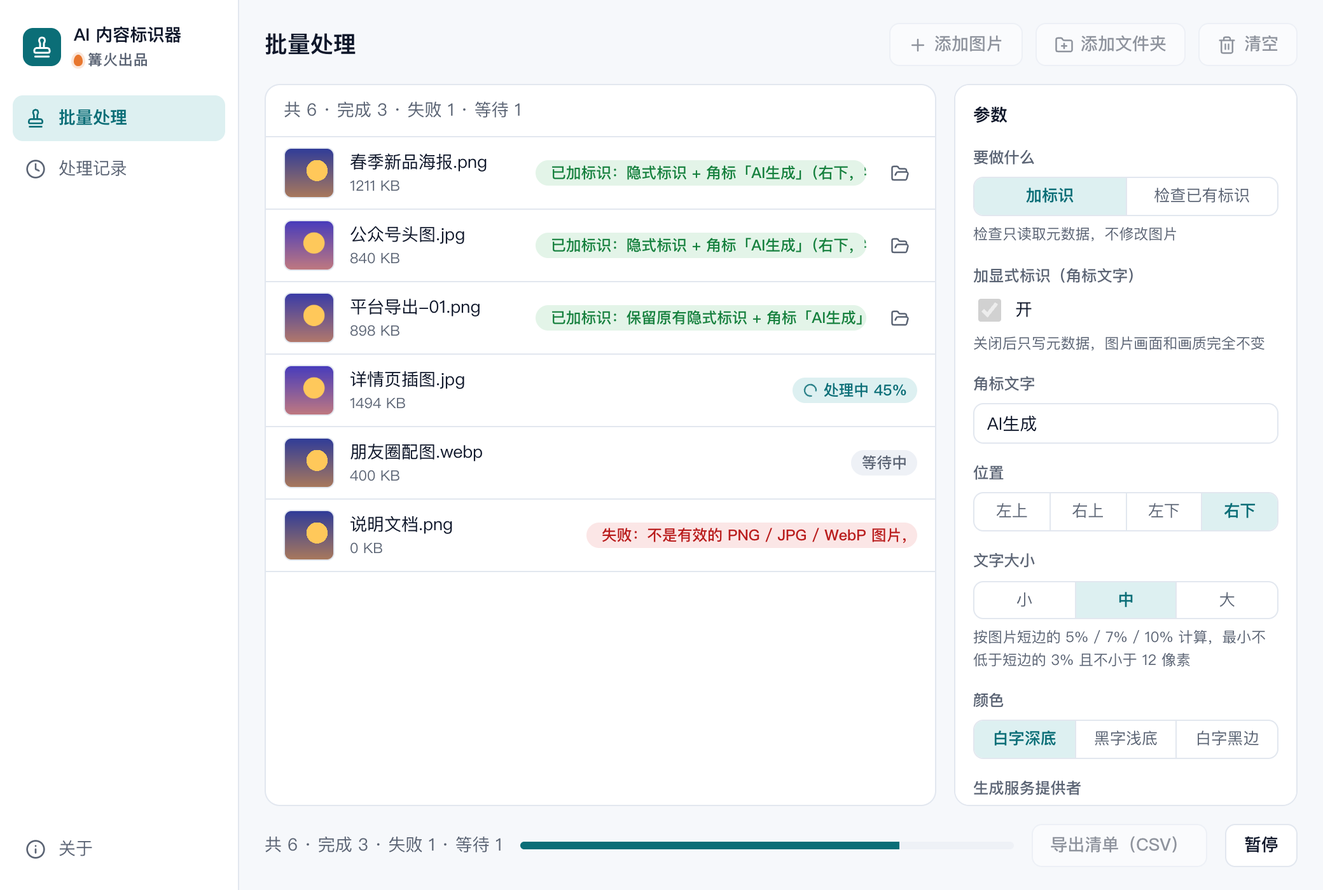
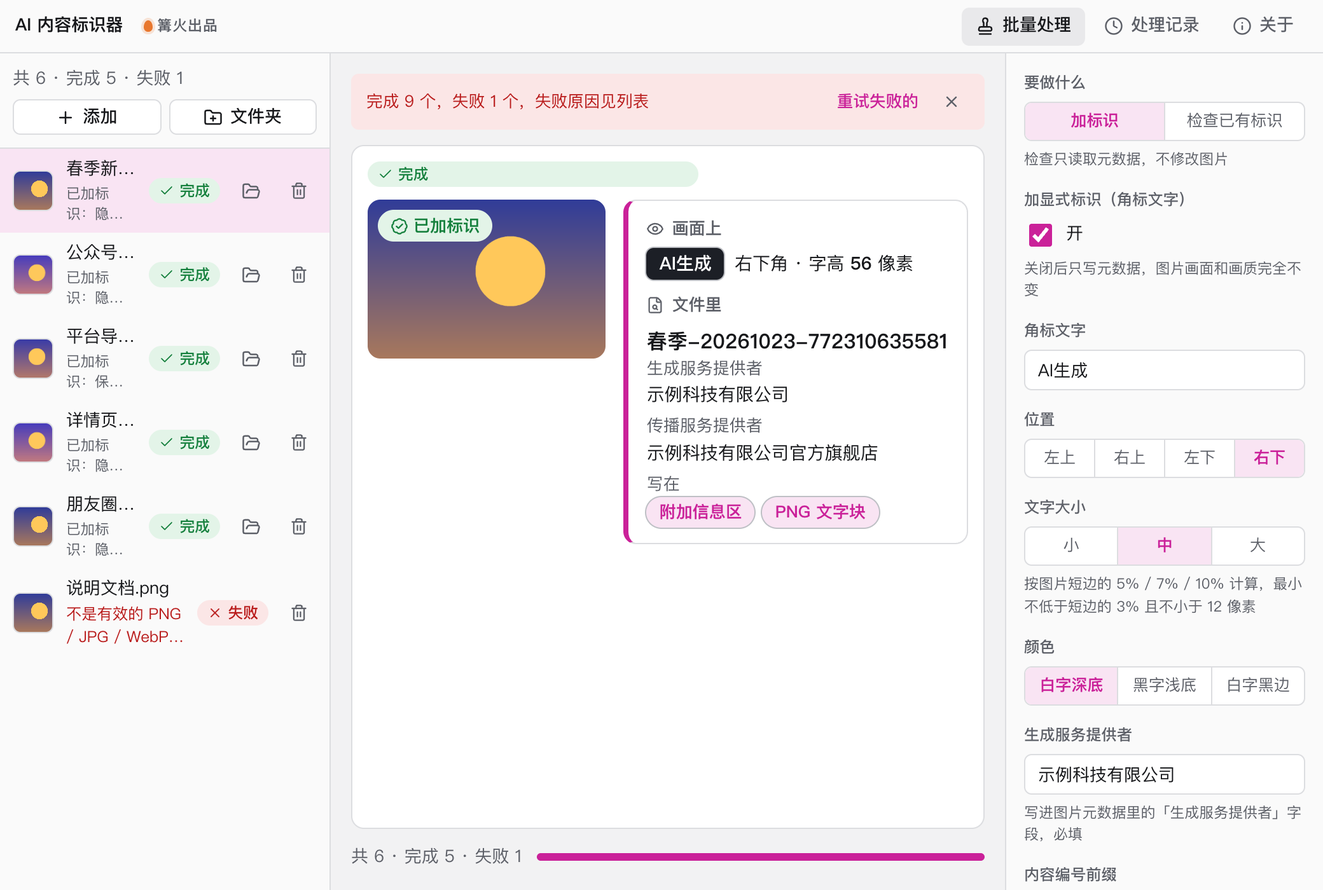
打磨 0.2.0：左列表右大预览布局、标识档案结果展示、新空状态、全中文

diff --git a/src/tool/index.ts b/src/tool/index.ts
@@ -6,6 +6,9 @@ import { drawLabel, type BadgeStyle } from './canvas';
 import { SIZE_RATIO, checkLabelText, detectFormat, inspect, makeProduceId, outputName, toCsv, type Corner } from './core';
 import { readJpegXmp, writeJpegXmp } from './jpeg';
 import { readPngXmp, writePngLabel } from './png';
+import { Empty } from './Empty';
+import { ResultBody } from './Result';
+import type { RowData } from './row';
 
 const isLabel = (p: Params) => p.action === 'label';
 const withExplicit = (p: Params) => isLabel(p) && p.explicit === true;
@@ -15,21 +18,13 @@ async function sha256Hex(b: Uint8Array) {
   return Array.from(d, (x) => x.toString(16).padStart(2, '0')).join('');
 }
 
-/** 每个文件的结果数据，供导出清单使用 */
-interface RowData {
-  found: boolean;
-  where: string[];
-  info: Partial<AigcInfo> | null;
-  output?: string;
-  kept?: boolean;
-}
 
 const CORNER_TEXT: Record<string, string> = { tl: '左上', tr: '右上', bl: '左下', br: '右下' };
 
 const tool: BatchTool = {
   id: 'c23',
   name: 'AI 内容标识器',
-  tagline: '依据《人工智能生成合成内容标识办法》，给 AI 生成的图片加上「AI生成」角标（显式标识），并把 AIGC 标记、生成服务提供者、内容编号写进文件元数据（隐式标识）；也能批量检查图片里有没有这些元数据。',
+  tagline: '依据《人工智能生成合成内容标识办法》，给 AI 生成的图片加上「AI生成」角标（显式标识），并把生成标记、生成服务提供者、内容编号写进文件元数据（隐式标识）；也能批量检查图片里有没有这些元数据。',
   icon: StampAsIcon,
   category: '内容生产',
   type: 'media',
@@ -44,12 +39,14 @@ const tool: BatchTool = {
     { key: 'corner', label: '位置', type: 'segment', options: [['tl', '左上'], ['tr', '右上'], ['bl', '左下'], ['br', '右下']], default: 'br', when: withExplicit },
     { key: 'size', label: '文字大小', type: 'segment', options: [['s', '小'], ['m', '中'], ['l', '大']], default: 'm', when: withExplicit, help: '按图片短边的 5% / 7% / 10% 计算，最小不低于短边的 3% 且不小于 12 像素' },
     { key: 'style', label: '颜色', type: 'segment', options: [['dark', '白字深底'], ['light', '黑字浅底'], ['outline', '白字黑边']], default: 'dark', when: withExplicit },
-    { key: 'producer', label: '生成服务提供者', type: 'text', default: '', placeholder: '生成这张图的 AI 服务提供者名称或编码', when: isLabel, help: '写入元数据的 ContentProducer 字段，必填' },
+    { key: 'producer', label: '生成服务提供者', type: 'text', default: '', placeholder: '生成这张图的 AI 服务提供者名称或编码', when: isLabel, help: '写进图片元数据里的「生成服务提供者」字段，必填' },
     { key: 'idPrefix', label: '内容编号前缀', type: 'text', default: '', placeholder: '选填，例如 SHOP-', when: isLabel, help: '内容编号 = 前缀 + 日期 + 文件摘要，同一张图编号固定' },
-    { key: 'propagator', label: '传播服务提供者', type: 'text', default: '', placeholder: '选填，例如发布平台或你的公司名称', when: isLabel, help: '写入 ContentPropagator 字段' },
+    { key: 'propagator', label: '传播服务提供者', type: 'text', default: '', placeholder: '选填，例如发布平台或你的公司名称', when: isLabel, help: '写进图片元数据里的「传播服务提供者」字段' },
     { key: 'existing', label: '图片里已有隐式标识时', type: 'segment', options: [['keep', '保留原有'], ['replace', '用新填的替换']], default: 'keep', when: isLabel, help: 'AI 平台导出的图片常常已带标识，默认保留原生成方信息' },
     { key: 'out', label: '保存到', type: 'folder', default: '', when: isLabel },
   ],
+  Empty,
+  ResultBody,
   exportAll: async (results, ctx) => {
     const label = isLabel(ctx.params);
     const header = ['文件', label ? '标识结果' : '是否有隐式标识', '标识位置', ...AIGC_FIELDS, ...(label ? ['输出文件'] : [])];
@@ -58,7 +55,7 @@ const tool: BatchTool = {
       const status = label ? (d.kept ? '保留原有隐式标识' : '已写入新的隐式标识') : d.found ? '有' : '没有';
       return [item.name, status, d.where.join('、'), ...AIGC_FIELDS.map((f) => d.info?.[f] ?? ''), ...(label ? [d.output ?? ''] : [])];
     });
-    const path = await ctx.join(ctx.outputDir, label ? 'AIGC标识清单.csv' : 'AIGC标识检查报告.csv');
+    const path = await ctx.join(ctx.outputDir, label ? 'AI生成标识清单.csv' : 'AI生成标识检查报告.csv');
     await ctx.writeText(path, toCsv(header, rows));
     return path;
   },
@@ -74,7 +71,7 @@ const tool: BatchTool = {
 
     if (!isLabel(p)) {
       const data: RowData = { found: !!before.info, where: before.where, info: before.info };
-      if (!before.info) return { summary: '没有找到 AIGC 隐式标识', data };
+      if (!before.info) return { summary: '没有找到 AI 生成隐式标识', data };
       const i = before.info;
       const who = i.ContentProducer ? `生成方 ${i.ContentProducer}` : '未写生成方';
       return { summary: `有隐式标识：${who}${i.ProduceID ? `，内容编号 ${i.ProduceID}` : ''}（位置：${before.where.join('、')}）`, data };
@@ -98,10 +95,12 @@ const tool: BatchTool = {
     const outFormat = format === 'jpg' ? 'jpg' : 'png';
     let data = src;
     let badgeNote = '';
+    let badge: RowData['badge'];
     if (p.explicit === true || format === 'webp') {
       const text = p.explicit === true ? checkLabelText(String(p.text ?? '')) : '';
       const r = await drawLabel(src, { text, corner: p.corner as Corner, ratio: SIZE_RATIO[String(p.size)] ?? SIZE_RATIO.m, style: p.style as BadgeStyle, format: outFormat });
       data = r.data;
+      if (r.badge) badge = { text, corner: String(p.corner), font: r.badge.font };
       if (r.badge) badgeNote = ` + 角标「${text}」（${CORNER_TEXT[String(p.corner)] ?? ''}，字高 ${r.badge.font} 像素）`;
     }
     ctx.progress(0.7);
@@ -126,7 +125,7 @@ const tool: BatchTool = {
       outputPath,
       preview: outputPath,
       summary: `${implicit}${badgeNote}${detail}${webp}`,
-      data: { found: true, where: after.where, info, output: outputPath, kept: keep } satisfies RowData,
+      data: { found: true, where: after.where, info, output: outputPath, kept: keep, badge } satisfies RowData,
     };
   },
 };

diff --git a/src/tool/tool.css b/src/tool/tool.css
@@ -1,0 +1,39 @@
+/* AI 内容标识器：空状态示意图 + 结果「标识档案」；只用 kit.css 变量，适配亮暗色 */
+.lb-empty { display: grid; justify-items: center; gap: 14px; padding: 20px; max-width: 580px; margin: auto; text-align: center; font-size: 14px; }
+.lb-empty > svg { width: 100%; max-width: 500px; height: auto; }
+.lb-photo { fill: var(--chip); stroke: var(--line-strong); stroke-width: 1.5; }
+.lb-sun { fill: var(--warn); }
+.lb-hill { fill: var(--primary); opacity: .5; }
+.lb-arrow { fill: none; stroke: var(--primary); stroke-width: 3; stroke-linecap: round; stroke-linejoin: round; }
+.lb-badge { fill: #1c1f26; opacity: .88; }
+.lb-badge-t { fill: #fff; font-size: 13px; font-weight: 700; }
+.lb-cap { fill: var(--ink); font-size: 13px; font-weight: 600; }
+.lb-cap.muted { fill: var(--muted); }
+.lb-meta rect:first-child { fill: var(--primary-soft); stroke: var(--primary); stroke-width: 1.5; }
+.lb-meta rect:not(:first-child) { fill: var(--primary); opacity: .45; }
+.lb-meta-h { fill: var(--primary); font-size: 13px; font-weight: 700; }
+.lb-points { list-style: none; margin: 0; padding: 0; display: grid; gap: 6px; width: 100%; max-width: 500px; text-align: left; }
+.lb-points li { display: grid; grid-template-columns: 20px 72px 1fr; align-items: center; gap: 8px; padding: 7px 12px; border-radius: min(var(--radius), 10px); background: var(--chip); }
+.lb-points svg { color: var(--primary); }
+.lb-points span { color: var(--muted); font-size: 13px; }
+.lb-title { margin: 4px 0 0; font-size: 20px; }
+.lb-act { margin: 0; color: var(--muted); font-size: 13px; }
+
+.lb-res { display: grid; grid-template-columns: minmax(130px, .9fr) minmax(0, 1.3fr); gap: 14px; width: 100%; min-width: 0; font-size: 14px; align-items: start; }
+.lb-pic { position: relative; margin: 0; border-radius: var(--radius-lg); overflow: hidden; background: var(--chip); }
+.lb-pic img { display: block; width: 100%; max-height: 300px; object-fit: contain; background: repeating-conic-gradient(var(--chip) 0 25%, var(--surface) 0 50%) 0 0 / 16px 16px; }
+.lb-state { position: absolute; left: 8px; top: 8px; display: inline-flex; align-items: center; gap: 4px; padding: 3px 10px; border-radius: 999px; font-size: 13px; font-weight: 600; background: var(--ok-soft); color: var(--ok); }
+.lb-state.warn { background: var(--warn-soft); color: var(--warn); }
+.lb-doc { display: grid; gap: 10px; padding: 12px 14px; border: 1px solid var(--line); border-left: 4px solid var(--primary); border-radius: var(--radius-lg); background: var(--surface); min-width: 0; }
+.lb-doc h4 { margin: 0 0 6px; display: flex; align-items: center; gap: 6px; font-size: 13px; color: var(--muted); font-weight: 600; }
+.lb-doc p { margin: 0; }
+.lb-badge-line { display: flex; align-items: center; flex-wrap: wrap; gap: 8px; }
+.lb-chip { display: inline-block; padding: 2px 10px; border-radius: 6px; background: #1c1f26; color: #fff; font-weight: 700; font-size: 14px; box-shadow: 0 0 0 1px var(--line-strong); }
+.lb-chip.soft { background: var(--primary-soft); color: var(--primary); font-weight: 600; font-size: 13px; border-radius: 999px; }
+.lb-id { font-size: 16px; font-weight: 700; letter-spacing: .01em; word-break: break-all; margin-bottom: 6px; }
+.lb-doc dl { margin: 0; display: grid; gap: 4px; }
+.lb-doc dl > div { display: grid; gap: 1px; }
+.lb-doc dt { color: var(--muted); font-size: 13px; }
+.lb-doc dd { margin: 0; min-width: 0; word-break: break-all; }
+.lb-where { display: flex; flex-wrap: wrap; gap: 6px; }
+@media (max-width: 560px) { .lb-res { grid-template-columns: 1fr; } }

diff --git a/src/tool/preview.ts b/src/tool/preview.ts
@@ -1,15 +1,31 @@
 // 截图与预览用的示例数据（不会进入正式运行）
 import type { Row } from '../kit/runner';
+import type { RowData } from './row';
 
 const img = (n: string) => new URL(`../../samples/${n}`, import.meta.url).href;
 const files: [string, string, number, Row['status'], string?][] = [
-  ['春季新品海报.png', 'AI海报.png', 1_240_000, 'ok', '已加标识：隐式标识 + 角标「AI生成」（右下，字高 56 像素） · 编号 SHOP-20261023-77231063f35f'],
-  ['公众号头图.jpg', 'AI插画.jpg', 860_000, 'ok', '已加标识：隐式标识 + 角标「AI生成」（右下，字高 70 像素） · 编号 SHOP-20261023-d061e354cddb'],
+  ['春季新品海报.png', 'AI海报.png', 1_240_000, 'ok', '已加标识：隐式标识 + 角标「AI生成」（右下，字高 56 像素） · 编号 春季-20261023-772310635581'],
+  ['公众号头图.jpg', 'AI插画.jpg', 860_000, 'ok', '已加标识：隐式标识 + 角标「AI生成」（右下，字高 70 像素） · 编号 春季-20261023-406135498204'],
   ['平台导出-01.png', '平台已标识.png', 920_000, 'ok', '已加标识：保留原有隐式标识 + 角标「AI生成」（右下，字高 56 像素） · 原生成方 示例AI平台'],
   ['详情页插图.jpg', 'AI插画.jpg', 1_530_000, 'run'],
   ['朋友圈配图.webp', 'AI海报.png', 410_000, 'wait'],
   ['说明文档.png', 'AI海报.png', 33, 'err', '不是有效的 PNG / JPG / WebP 图片，可能已损坏或扩展名不对'],
 ];
+
+function dataOf(text: string): RowData {
+  const kept = text.includes('保留原有');
+  const id = /编号 (\S+)/.exec(text)?.[1] ?? '';
+  const font = Number(/字高 (\d+)/.exec(text)?.[1] ?? 56);
+  return {
+    found: true,
+    // check-zh: 忽略（与读取结果里的位置名一致，界面上会转成中文）
+    where: ['XMP', 'PNG 文字块 AIGC'],
+    info: kept ? { ContentProducer: '示例AI平台', ProduceID: 'DEMO-0001', ContentPropagator: '' } : { ContentProducer: '示例科技有限公司', ProduceID: id, ContentPropagator: '示例科技有限公司官方旗舰店' },
+    output: '/示例/输出',
+    kept,
+    badge: { text: 'AI生成', corner: 'br', font },
+  };
+}
 
 export const rows = (state: string): Row[] =>
   state === 'empty' ? [] : files.map(([name, sample, size, status, text], i) => {
@@ -19,7 +35,7 @@ export const rows = (state: string): Row[] =>
       status: st,
       progress: st === 'run' ? 0.45 : st === 'ok' ? 1 : 0,
       error: st === 'err' ? text : undefined,
-      result: st === 'ok' ? { summary: text ?? '已加标识：隐式标识 + 角标「AI生成」', outputPath: '/示例/输出', preview: img(sample) } : undefined,
+      result: st === 'ok' ? { summary: text ?? '已加标识：隐式标识 + 角标「AI生成」', outputPath: '/示例/输出', preview: img(sample), data: dataOf(text ?? '') } : undefined,
     };
   });
 

diff --git a/src/tool/Empty.tsx b/src/tool/Empty.tsx
@@ -1,0 +1,43 @@
+// 空状态：画出「一张 AI 配图 → 右下角多一个角标，文件里多一份编号」，再讲清两层标识
+import { Eye, FileSearch, Upload } from 'lucide-react';
+import './tool.css';
+
+function Photo({ x, y, w, h }: { x: number; y: number; w: number; h: number }) {
+  return (
+    <g>
+      <rect x={x} y={y} width={w} height={h} rx="8" className="lb-photo" />
+      <circle cx={x + w * 0.74} cy={y + h * 0.27} r={h * 0.1} className="lb-sun" />
+      <path d={`M${x} ${y + h * 0.8} L${x + w * 0.32} ${y + h * 0.42} L${x + w * 0.55} ${y + h * 0.68} L${x + w * 0.7} ${y + h * 0.55} L${x + w} ${y + h * 0.82} V${y + h - 8} Q${x + w} ${y + h} ${x + w - 8} ${y + h} H${x + 8} Q${x} ${y + h} ${x} ${y + h - 8} Z`} className="lb-hill" />
+    </g>
+  );
+}
+
+export function Empty({ hover }: { hover: boolean }) {
+  return (
+    <div className="lb-empty">
+      <svg viewBox="0 0 460 170" role="img" aria-label="一张 AI 生成的图片，右下角多了「AI生成」角标，文件里多了生成服务提供者和内容编号">
+        <Photo x={8} y={20} w={150} h={112} />
+        <text x="83" y="154" textAnchor="middle" className="lb-cap muted">原图</text>
+        <path d="M174 76 H208 M199 67 L210 76 L199 85" className="lb-arrow" />
+        <Photo x={226} y={20} w={150} h={112} />
+        <rect x="294" y="106" width="76" height="22" rx="5" className="lb-badge" />
+        <text x="332" y="121" textAnchor="middle" className="lb-badge-t">AI生成</text>
+        <text x="301" y="154" textAnchor="middle" className="lb-cap">画面上：显式标识</text>
+        <g className="lb-meta">
+          <rect x="386" y="20" width="68" height="112" rx="8" />
+          <text x="420" y="42" textAnchor="middle" className="lb-meta-h">文件里</text>
+          <rect x="396" y="54" width="48" height="6" rx="3" /><rect x="396" y="70" width="36" height="6" rx="3" />
+          <rect x="396" y="86" width="44" height="6" rx="3" /><rect x="396" y="102" width="30" height="6" rx="3" />
+        </g>
+        <text x="420" y="154" textAnchor="middle" className="lb-cap">隐式标识</text>
+      </svg>
+      <ul className="lb-points">
+        <li><Eye size={16} /><b>显式标识</b><span>在画面一角加「AI生成」，字高按图片大小算，小图放不下会提示</span></li>
+        <li><FileSearch size={16} /><b>隐式标识</b><span>把生成方、内容编号写进文件元数据，同一张图编号固定</span></li>
+        <li><Upload size={16} /><b>检查已有</b><span>切到「检查已有标识」，批量看哪些图没带标识</span></li>
+      </ul>
+      <h2 className="lb-title">{hover ? '松开鼠标，开始添加' : '把 AI 生成的图片拖进来'}</h2>
+      <p className="lb-act">支持 PNG、JPG、WebP，可多张或整个文件夹；结果存到新文件夹，原图不动</p>
+    </div>
+  );
+}

diff --git a/src/tool/Result.tsx b/src/tool/Result.tsx
@@ -1,0 +1,57 @@
+// 单张图的结果：左边是图（加了角标的成品），右边是一张「标识档案」，写清画面上和文件里各有什么
+import { BadgeCheck, CircleSlash, Eye, FileSearch, ShieldCheck } from 'lucide-react';
+import type { InputItem, ItemResult } from '../kit/types';
+import { fileSrc } from '../kit/platform';
+import type { RowData } from './row';
+import './tool.css';
+
+const CORNER: Record<string, string> = { tl: '左上角', tr: '右上角', bl: '左下角', br: '右下角' };
+
+const where = (w: string) => (w === 'XMP' ? '附加信息区' : w.startsWith('PNG 文字块') ? 'PNG 文字块' : w);
+
+export function ResultBody({ item, result }: { item: InputItem; result: ItemResult }) {
+  const d = result.data as RowData | undefined;
+  const src = result.preview ?? item.path;
+  const labeled = !!d?.output;
+  const info = d?.info ?? null;
+  const found = !!d?.found;
+  const tone = found ? 'ok' : 'warn';
+  const rows: [string, string | undefined][] = [
+    ['生成服务提供者', info?.ContentProducer],
+    ['传播服务提供者', info?.ContentPropagator],
+  ];
+  return (
+    <div className="lb-res">
+      {src && (
+        <figure className="lb-pic">
+          <img src={fileSrc(src)} alt={labeled ? '加好标识的图片' : '待检查的图片'} />
+          <figcaption className={`lb-state ${tone}`}>{labeled ? <BadgeCheck size={14} /> : found ? <ShieldCheck size={14} /> : <CircleSlash size={14} />}{labeled ? (d?.kept ? '保留原有标识' : '已加标识') : found ? '带有标识' : '没有标识'}</figcaption>
+        </figure>
+      )}
+      <div className="lb-doc">
+        {labeled && (
+          <section>
+            <h4><Eye size={14} />画面上</h4>
+            {d?.badge
+              ? <p className="lb-badge-line"><span className="lb-chip">{d.badge.text}</span><span>{CORNER[d.badge.corner] ?? ''} · 字高 <b className="k-num">{d.badge.font}</b> 像素</span></p>
+              : <p className="k-muted">没有加角标，画面一个像素都没变</p>}
+          </section>
+        )}
+        <section>
+          <h4><FileSearch size={14} />文件里</h4>
+          {found ? (
+            <>
+              <p className="lb-id k-num" title="内容编号">{info?.ProduceID || '未写内容编号'}</p>
+              <dl>
+                {rows.filter(([, v]) => v).map(([k, v]) => <div key={k}><dt>{k}</dt><dd>{v}</dd></div>)}
+                {!!d?.where.length && <div><dt>写在</dt><dd className="lb-where">{[...new Set(d.where.map(where))].map((w) => <span key={w} className="lb-chip soft">{w}</span>)}</dd></div>}
+              </dl>
+            </>
+          ) : (
+            <p className="k-muted">元数据里没有找到 AI 生成标识。画面上有没有角标，这里看不出来</p>
+          )}
+        </section>
+      </div>
+    </div>
+  );
+}

diff --git a/src/tool/index.test.ts b/src/tool/index.test.ts
@@ -106,10 +106,10 @@ describe('检查已有标识 + 导出清单', () => {
     const results: { item: InputItem; result: ItemResult }[] = [];
     for (const n of ['有.png', '无.jpg']) results.push({ item: item(n), result: await tool.run(item(n), ctx) });
     expect(results[0].result.summary).toBe('有隐式标识：生成方 示例科技，内容编号 ID-9（位置：XMP、PNG 文字块 AIGC）');
-    expect(results[1].result.summary).toBe('没有找到 AIGC 隐式标识');
+    expect(results[1].result.summary).toBe('没有找到 AI 生成隐式标识');
     expect([...files.keys()].some((k) => k.startsWith('/out/') && !k.endsWith('.csv'))).toBe(false);
     const path = await tool.exportAll!(results, ctx);
-    expect(path).toBe('/out/AIGC标识检查报告.csv');
+    expect(path).toBe('/out/AI生成标识检查报告.csv');
     const csv = new TextDecoder().decode(files.get(path)!);
     expect(csv).toContain('文件,是否有隐式标识,标识位置,Label,ContentProducer,ProduceID');
     expect(csv).toContain('有.png,有,XMP、PNG 文字块 AIGC,1,示例科技,ID-9');

diff --git a/src/tool/jpeg.ts b/src/tool/jpeg.ts
@@ -50,7 +50,7 @@ export function readJpegOtherTexts(b: Uint8Array) {
 export function writeJpegXmp(b: Uint8Array, xmp: string) {
   const { segments, bodyStart } = readSegments(b);
   const payload = concat([utf8(XMP_HEADER), utf8(xmp)]);
-  if (payload.length + 2 > 0xffff) throw new Error('XMP 元数据太大，超过 JPG 单段 64KB 的上限，请先用其他软件清理图片里的元数据');
+  if (payload.length + 2 > 0xffff) throw new Error('图片里的元数据太大，超过 JPG 单段 64KB 的上限，请先用其他软件清理图片里的元数据');
   const seg = new Uint8Array(4 + payload.length);
   seg[0] = 0xff; seg[1] = 0xe1; seg[2] = (payload.length + 2) >> 8; seg[3] = (payload.length + 2) & 0xff;
   seg.set(payload, 4);

diff --git a/src/tool/row.ts b/src/tool/row.ts
@@ -1,0 +1,12 @@
+// 每个文件的结果数据（放在 ItemResult.data 里），导出清单和结果展示都用它。
+import type { AigcInfo } from './aigc';
+
+export interface RowData {
+  found: boolean;
+  where: string[];
+  info: Partial<AigcInfo> | null;
+  output?: string;
+  kept?: boolean;
+  /** 画在图上的角标（没加角标时为空） */
+  badge?: { text: string; corner: string; font: number };
+}

diff --git a/src/tool/bytes.ts b/src/tool/bytes.ts
@@ -31,7 +31,7 @@ export function latin1(s: string) {
   const out = new Uint8Array(s.length);
   for (let i = 0; i < s.length; i++) {
     const c = s.charCodeAt(i);
-    if (c > 255) throw new Error('内部错误：Latin-1 文本里出现了非 Latin-1 字符');
+    if (c > 255) throw new Error('内部错误：文字里出现了无法写入的字符');
     out[i] = c;
   }
   return out;

diff --git a/README.md b/README.md
@@ -28,9 +28,9 @@
 3. 显式标识：默认在右下角加「AI生成」角标，可改文字（不超过 20 个字）、位置（四个角）、大小、颜色。字高按图片短边的 5% / 7% / 10% 计算，不会低于短边的 3%，也不会小于 12 像素；图片太小放不下时会提示，不会硬塞一个看不清的角标。关掉「加显式标识」则只写元数据，画面一个像素都不变。
 4. 隐式标识：填「生成服务提供者」（必填，生成这张图的 AI 服务提供者名称或编码），可选填「内容编号前缀」和「传播服务提供者」。
 5. 点「开始处理」，结果保存到「保存到」文件夹（默认 `下载/AI 内容标识器`），文件名与原图相同；保存位置不能是原图所在文件夹，以免覆盖原图。
-6. 处理完可以点「导出清单（CSV）」，得到每张图的内容编号、生成方等，便于留存。
+6. 处理完，每张图的结果里会有一份「标识档案」：左边是成品图，右边写明角标文字、位置、字高，以及写进文件的内容编号、生成服务提供者和写入位置。还可以点「导出清单（CSV）」，得到每张图的内容编号、生成方等，便于留存。
 
-**检查已有标识**：「要做什么」选「检查已有标识」，拖入图片后开始处理，列表里显示每张图是否带 AIGC 隐式标识、生成方和内容编号，不修改图片。可导出「AIGC标识检查报告.csv」。注意：只能检查元数据里的隐式标识，看不出画面上有没有文字角标，也检测不了数字水印。
+**检查已有标识**：「要做什么」选「检查已有标识」，拖入图片后开始处理，列表里显示每张图是否带 AIGC 隐式标识、生成方和内容编号，不修改图片。可导出「AI生成标识检查报告.csv」。注意：只能检查元数据里的隐式标识，看不出画面上有没有文字角标，也检测不了数字水印。
 
 **写入了什么**
 
@@ -66,7 +66,7 @@ XMP 里使用命名空间 `http://www.tc260.org.cn/ns/AIGC/1.0/`（前缀 `TC260
 | 「加标识」，关掉「加显式标识」，拖入 `samples/AI插画.jpg` | 输出 `AI插画.jpg` 画面与原图完全一样，文件略大几百字节；用「检查已有标识」能读到 XMP 里的标识 |
 | 「加标识」（生成服务提供者随便填），拖入 `samples/平台已标识.png` | 结果显示「已加标识：保留原有隐式标识 + 角标… · 原生成方 示例AI平台」，内容编号仍是 `DEMO-0001` |
 | 同上，但「图片里已有隐式标识时」选「用新填的替换」 | 生成方改为新填的名称，内容编号变成新编号 |
-| 「检查已有标识」，拖入 `samples/` 里全部 4 个文件，处理后点「导出清单（CSV）」 | `平台已标识.png` 显示有标识（生成方 示例AI平台，编号 DEMO-0001）；`AI海报.png`、`AI插画.jpg` 显示「没有找到 AIGC 隐式标识」；`不是图片.png` 失败：「不是有效的 PNG / JPG / WebP 图片，可能已损坏或扩展名不对」；保存文件夹里出现 `AIGC标识检查报告.csv`，Excel 打开不乱码 |
+| 「检查已有标识」，拖入 `samples/` 里全部 4 个文件，处理后点「导出清单（CSV）」 | `平台已标识.png` 显示有标识（生成方 示例AI平台，编号 DEMO-0001）；`AI海报.png`、`AI插画.jpg` 显示「没有找到 AI 生成隐式标识」；`不是图片.png` 失败：「不是有效的 PNG / JPG / WebP 图片，可能已损坏或扩展名不对」；保存文件夹里出现 `AI生成标识检查报告.csv`，Excel 打开不乱码 |
 | 「加标识」，「生成服务提供者」留空，拖入 `samples/AI海报.png` | 失败：「请先在「生成服务提供者」里填写生成这张图的 AI 服务提供者名称或编码」 |
 
 开发自检：`pnpm dev` 后打开 `http://localhost:1420/selftest.html`，每行都应是 PASS（真实画布下加角标、写元数据、读回、输出仍可解码、只写元数据时像素不变、小图字高不低于 12 像素）。

diff --git a/CHANGELOG.md b/CHANGELOG.md
@@ -1,5 +1,13 @@
 # 更新记录
 
+## 0.2.0
+
+- 换成左侧文件列表、中间大预览、右侧参数的布局，主色改为洋红。
+- 新空状态：画出「原图 → 画面角标 + 文件元数据」，讲清显式、隐式两层标识。
+- 每张图的结果新增「标识档案」：成品图 + 角标文字、位置、字高 + 内容编号、生成服务提供者、写入位置；检查模式同样显示。
+- 界面文字全部改为中文，导出的清单文件名改为「AI生成标识清单.csv」「AI生成标识检查报告.csv」。
+- 重写上架文案。
+
 ## 0.1.0
 
 - 首个版本。
